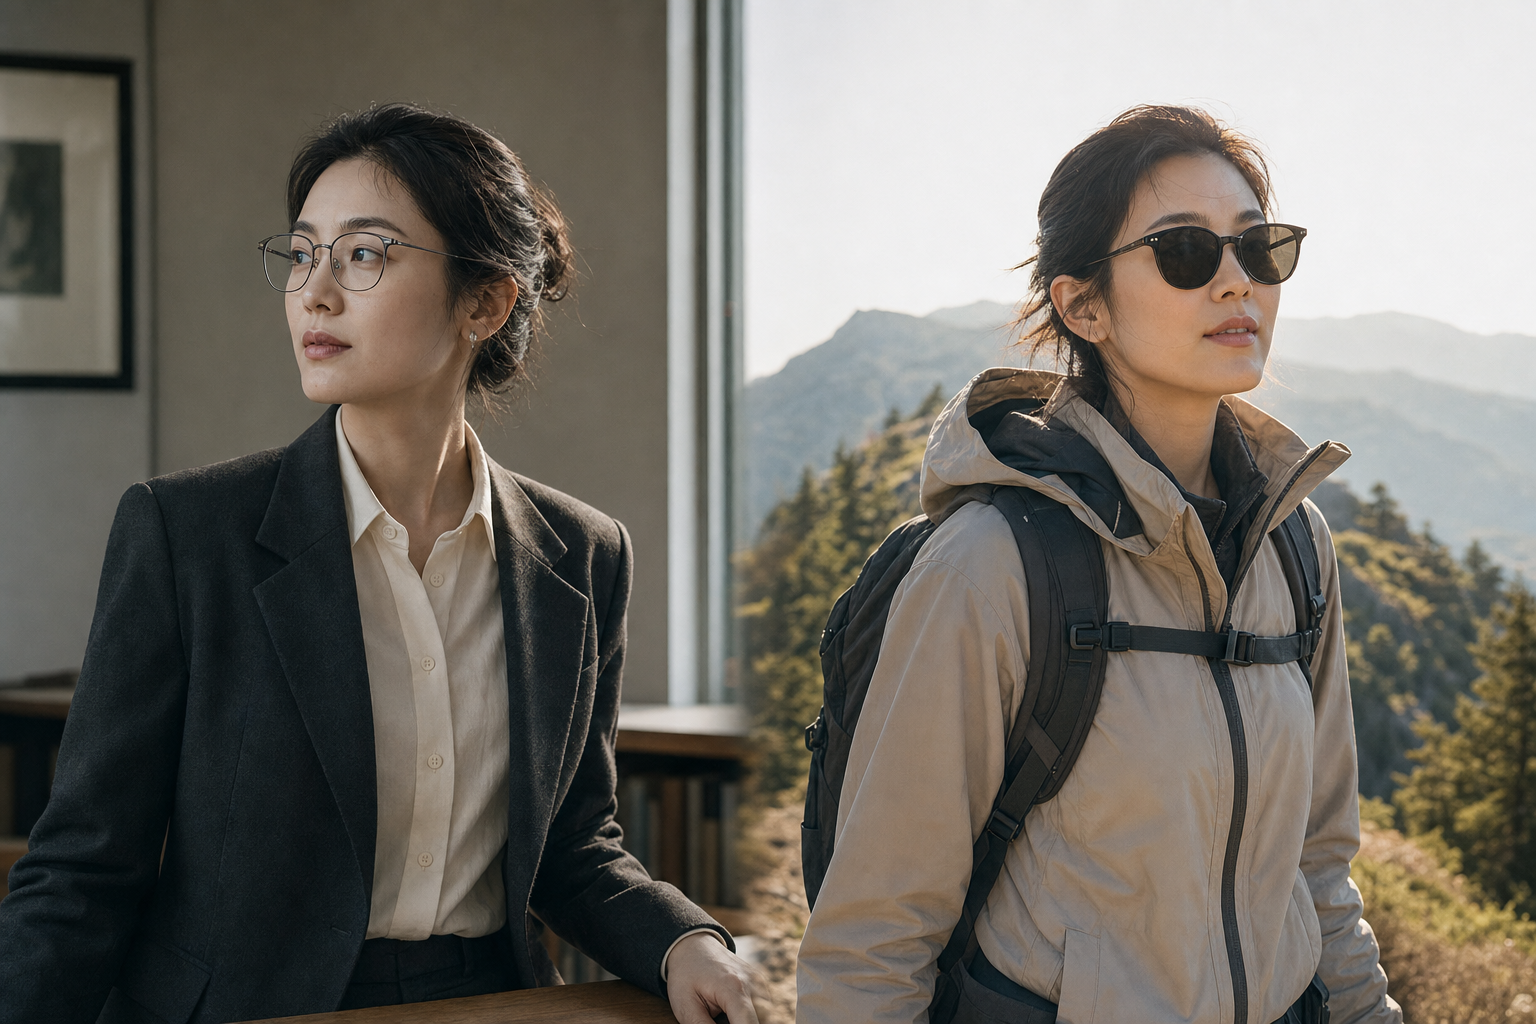
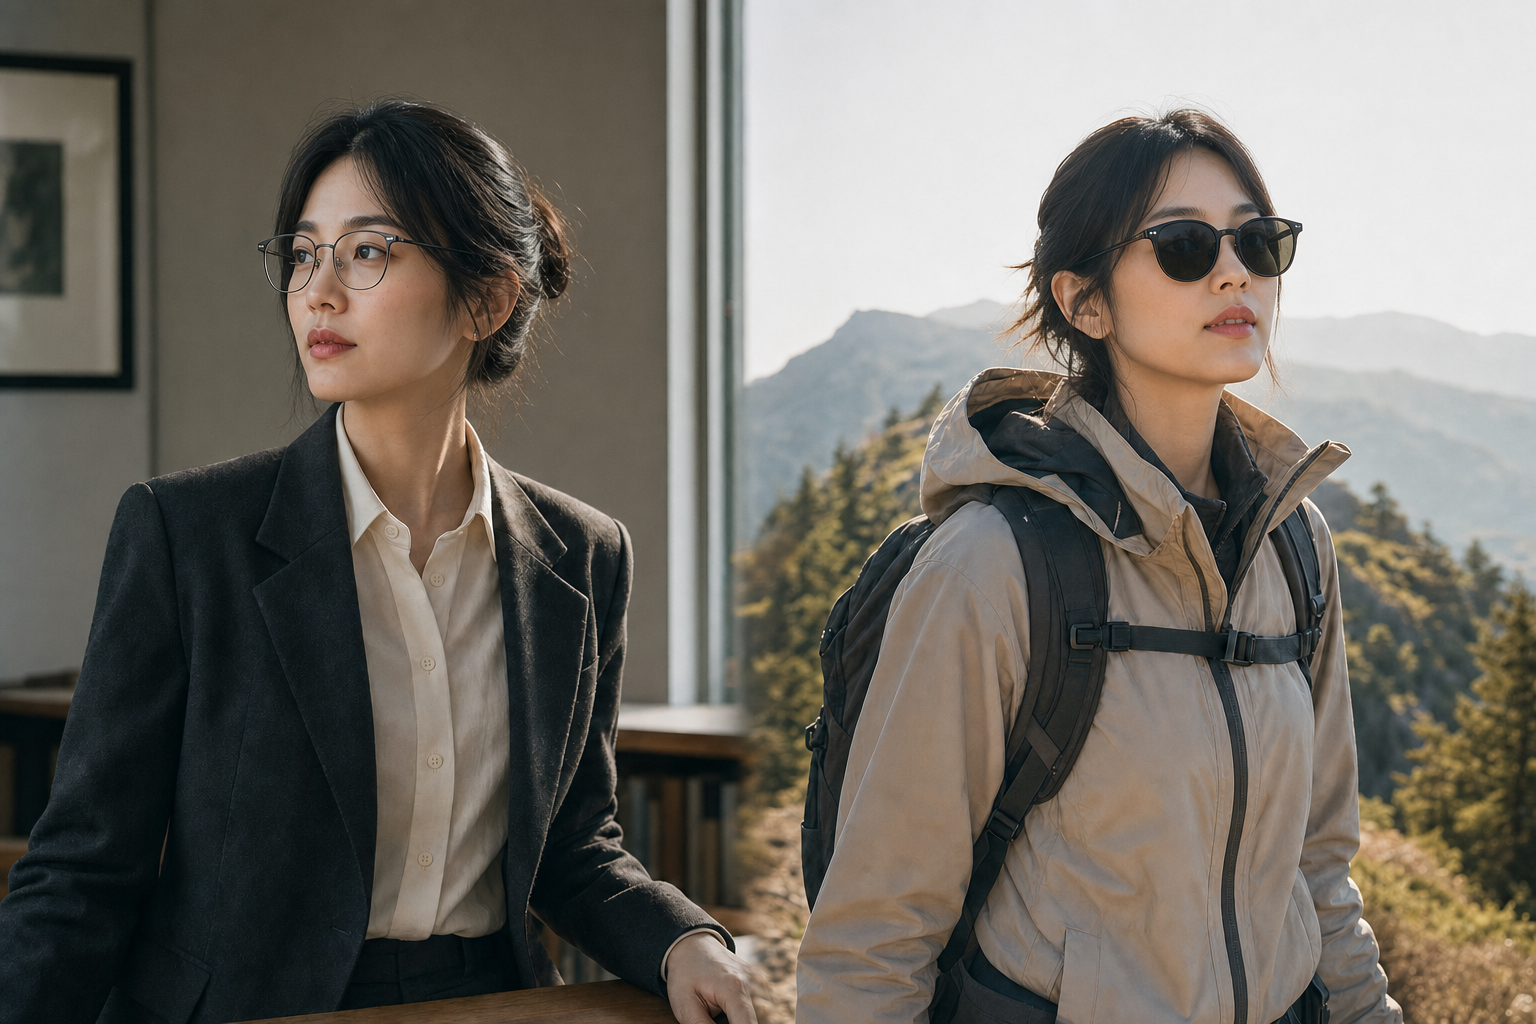
update entry portraits

Changed region(s): [[0.1562, 0.0938, 0.375, 0.4688], [0.6562, 0.0938, 0.875, 0.4062], [0.25, 0.5, 0.2812, 0.5312]]

diff --git a/src/components/LandingPage.jsx b/src/components/LandingPage.jsx
@@ -32,7 +32,7 @@ export function LandingPage({ onNavigate }) {
       </div>
       <div className="experience-grid">
         <article className="experience-card try-card" onClick={() => onNavigate('try-on')}>
-          <div className="experience-image"><img src={asset('sample-face.jpg')} alt="虚拟眼镜试戴"/><span>01</span></div>
+          <div className="experience-image"><img src={asset('tryon-entry.jpg')} alt="虚拟眼镜试戴正面照"/><span>01</span></div>
           <div className="experience-copy"><Eye size={22}/><span>TRY ON</span><h3>Try Before<br/>You Decide</h3><p>Upload your photo and explore different frames instantly.</p><button>Enter Try-On <ArrowRight/></button></div>
         </article>
         <article className="experience-card scenario-card" onClick={() => onNavigate('scenario')}>
@@ -40,7 +40,7 @@ export function LandingPage({ onNavigate }) {
           <div className="experience-copy"><Sparkle size={22}/><span>SCENARIO</span><h3>Who Do You Want<br/>To Be Today?</h3><p>Different moments call for different versions of you.</p><button>Choose Your Moment <ArrowRight/></button></div>
         </article>
         <article className="experience-card identity-card" onClick={() => onNavigate('identity-test')}>
-          <div className="identity-art"><img src={asset('hero-portrait.png')} alt="视觉身份肖像"/><div><b>The Quiet<br/>Strategist</b><small>CALM · THOUGHTFUL · RELIABLE</small></div><span>03</span></div>
+          <div className="identity-art"><img src={asset('identity-portrait.png')} alt="视觉身份侧脸肖像"/><div><b>The Quiet<br/>Strategist</b><small>CALM · THOUGHTFUL · RELIABLE</small></div><span>03</span></div>
           <div className="experience-copy"><Fingerprint size={22}/><span>IDENTITY</span><h3>Discover Your<br/>Visual Identity</h3><p>Understand how you are seen, and how you want to be seen.</p><button>Begin Discovery <ArrowRight/></button></div>
         </article>
       </div>